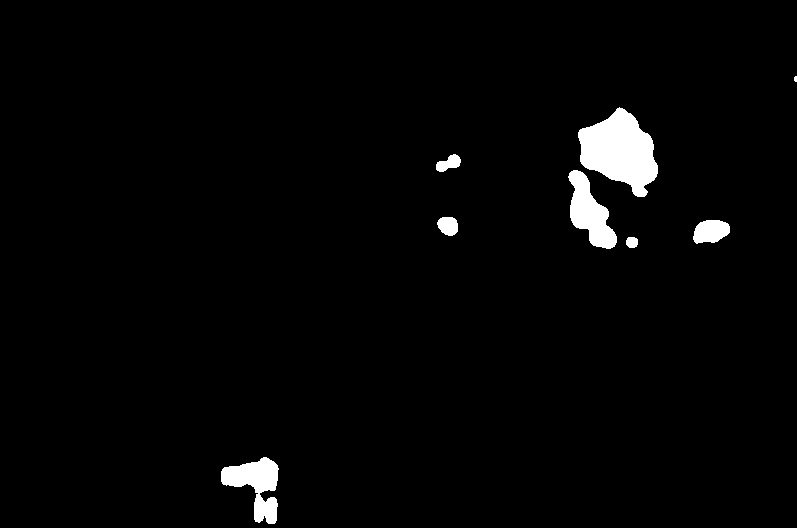
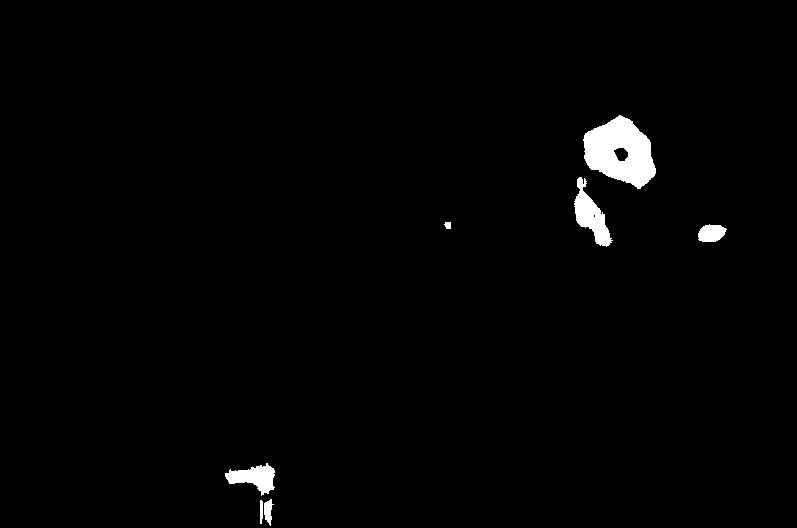
updated

diff --git a/fire.py b/fire.py
@@ -2,17 +2,18 @@ import cv2
 import sys
 import numpy as np
 import matplotlib.pyplot as plt
+from colorama import Fore, Back, Style
 
-def read_values(command_line):
-    
-
-# Implements a fire detection algorithm using back projection and 
+# Implements a fire detection algorithm using back projection and
 # various optimizations explained throughout
 def fire_detection(space, threshold, input_file, output_file, sample_file):
-    
     # Read in images
     source = cv2.imread(input_file)
     sample = cv2.imread(sample_file)
+    if source is None:
+        print("Image is none.")
+    if sample is None:
+        print("Sample is none.")
 
     # Convert to appropriate colour space (defaults to YCC if unspecified)
     if (space == "HSV"):
@@ -35,9 +36,9 @@ def fire_detection(space, threshold, input_file, output_file, sample_file):
     cv2.normalize(sample_hist, sample_hist, 0, 255, cv2.NORM_MINMAX)
 
     # Blur image to produce a smoother mask
-    source_converted = cv2.blur(source_converted, (15,15))
+    source_converted = cv2.blur(source_converted, (20,20))
     
-    # Gets the back projection from the converted image and sample histogram 
+    # Gets the back projection from the converted image and sample histogram
     # with preset nominal values
     if(space == "YCC"):
         dst = cv2.calcBackProject([source_converted], [0, 1], sample_hist, [16, 235, 16, 235], 1)
@@ -45,7 +46,7 @@ def fire_detection(space, threshold, input_file, output_file, sample_file):
         dst = cv2.calcBackProject([source_converted], [0, 1], sample_hist, [0, 180, 0, 256], 1)
     
     # Applies the morphing style onto the mask with specified kernel size
-    disc = cv2.getStructuringElement(cv2.MORPH_ELLIPSE, (10, 10))
+    disc = cv2.getStructuringElement(cv2.MORPH_DILATE, (12, 12))
     cv2.filter2D(dst, -1, disc, dst)
 
     # Binary threshold mask applied to original image to create a mask
@@ -53,8 +54,8 @@ def fire_detection(space, threshold, input_file, output_file, sample_file):
     thresh = cv2.merge((thresh, thresh, thresh))
     
     # Mask is dilated to create a more monolithic region
-    kernel = np.ones((8, 8), np.uint8)
-    thresh = cv2.dilate(thresh, kernel, iterations=1)
+    #kernel = np.ones((8, 8), np.uint8)
+    #thresh = cv2.dilate(thresh, kernel, iterations=1)
 
     res = cv2.bitwise_and(source, thresh)
 
@@ -82,37 +83,57 @@ def image_testing(image, ground_truth):
 
         white_pixels_diff = np.sum(difference == 255)
         black_pixels_image = np.sum(difference == 0)
-        print("Truth:", black_pixels_truth)
-        print("Image:", black_pixels_image)
-
+        #print("Truth:", black_pixels_truth)
+        #print("Image:", black_pixels_image)
         calc = ((black_pixels_truth - black_pixels_image) / black_pixels_truth) * 100
-        return calc
+       
 
-        #cv2.imwrite('truth.png', truth)
-        #cv2.imwrite('diff.png', difference)
+        cv2.imwrite('ground_truth.png', truth)
+        cv2.imwrite('overlayed.png', difference)
+        return calc
         #cv2.imshow('inverted', image)
         #cv2.waitKey(0)
+    return -1
+
+# Prints out the results in colour coding formatted to correlate with its strength
+def test_results(result):
+
+    print('This image is', end='')
+
+    if(result >= 90):
+        print(Fore.GREEN, Style.BRIGHT, end='')
+    elif(70 <= result < 80):
+        print(Fore.GREEN, Style.NORMAL, end='')
+    elif(60 <= result < 70):
+        print(Fore.YELLOW, Style.BRIGHT, end='')
+    elif(50 <= result < 60):
+        print(Fore.YELLOW, Style.NORMAL, end='')
     else:
-        return -1
+        print(Fore.RED, Style.NORMAL, end='')
+    
+    print('{}%'.format(round(result, 2)), end='')
+    print(Style.RESET_ALL, end='')
+    print(' of the ground truth.')
 
-
-
-#for i in str(sys.argv):
-print('{}'.format(str(sys.argv)))
-#for i in str(sys.argv):
-print('{}'.format(str(sys.argv[0])))
-print('{}'.format(len(sys.argv)))
-lenght = len(sys.argv)
+"""
 for arg in range(len(sys.argv)):
-    print('here')
+    print('Arg:', '{}'.format(str(sys.argv[arg])))
 
-space       = sys.argv[1]
-threshold   = sys.argv[2]
-input_file  = sys.argv[3]
+space = sys.argv[1]
+threshold = int(sys.argv[2])
+input_file = sys.argv[3]
 output_file = sys.argv[4]
 sample_file = sys.argv[5]
-
-fire_detection(space, threshold, input_file, output_file, sample_file)
+ground_truth = sys.argv[6]
+"""
+fire_detection(sys.argv[1], int(sys.argv[2]), sys.argv[3], sys.argv[4], sys.argv[5])
+"""
+res = image_testing(sys.argv[4], sys.argv[6])
+if res < 0:
+    print(Fore.RED, 'Error:',Style.RESET_ALL, 'Images are not the same shape and could not be compared')
+else:
+    test_results(res)
+    """
 #fire_detection("YCC", 50, "./fire_grdtruths/s1.jpg", "./output/output_thresh1.jpg", "sample_fire_images.png")
 """
 calc = image_testing("./output/output_thresh1.jpg","./fire_grdtruths/s1_flameB.tif")
